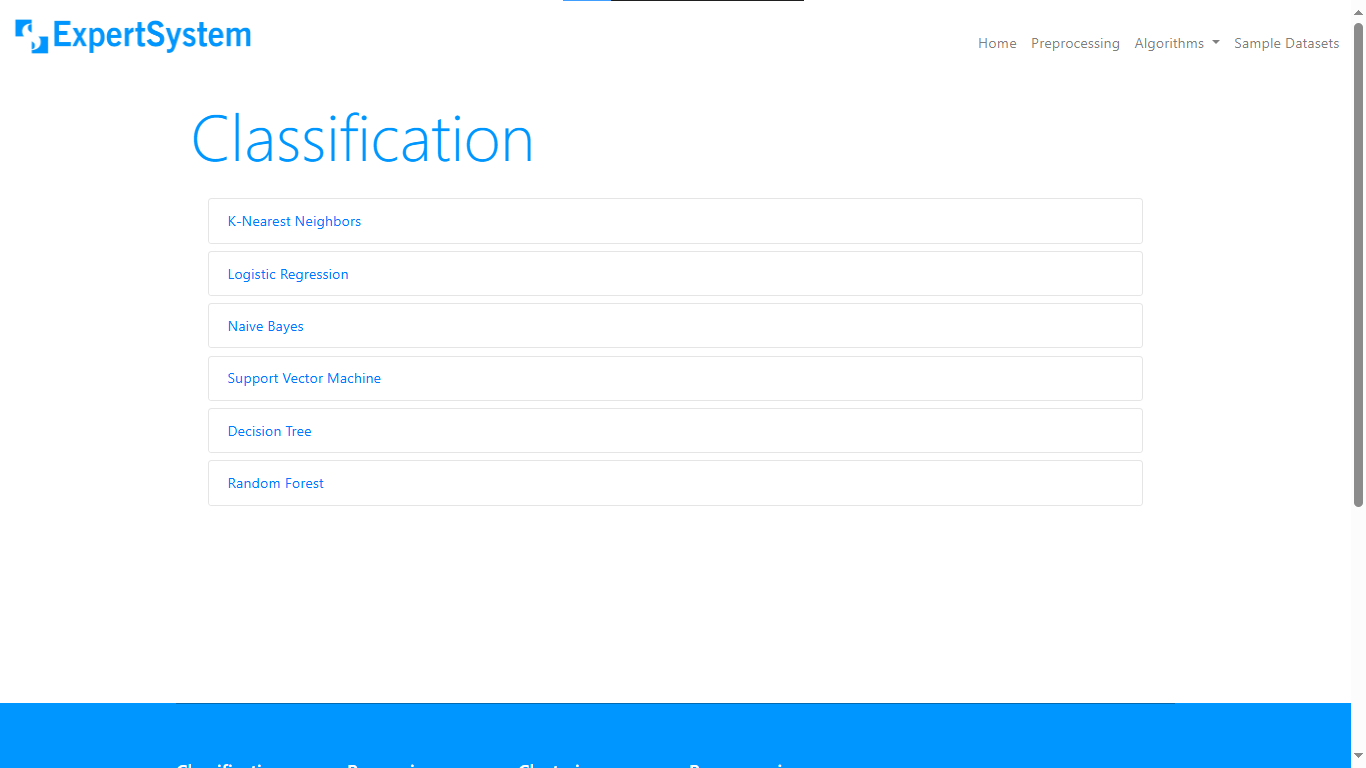
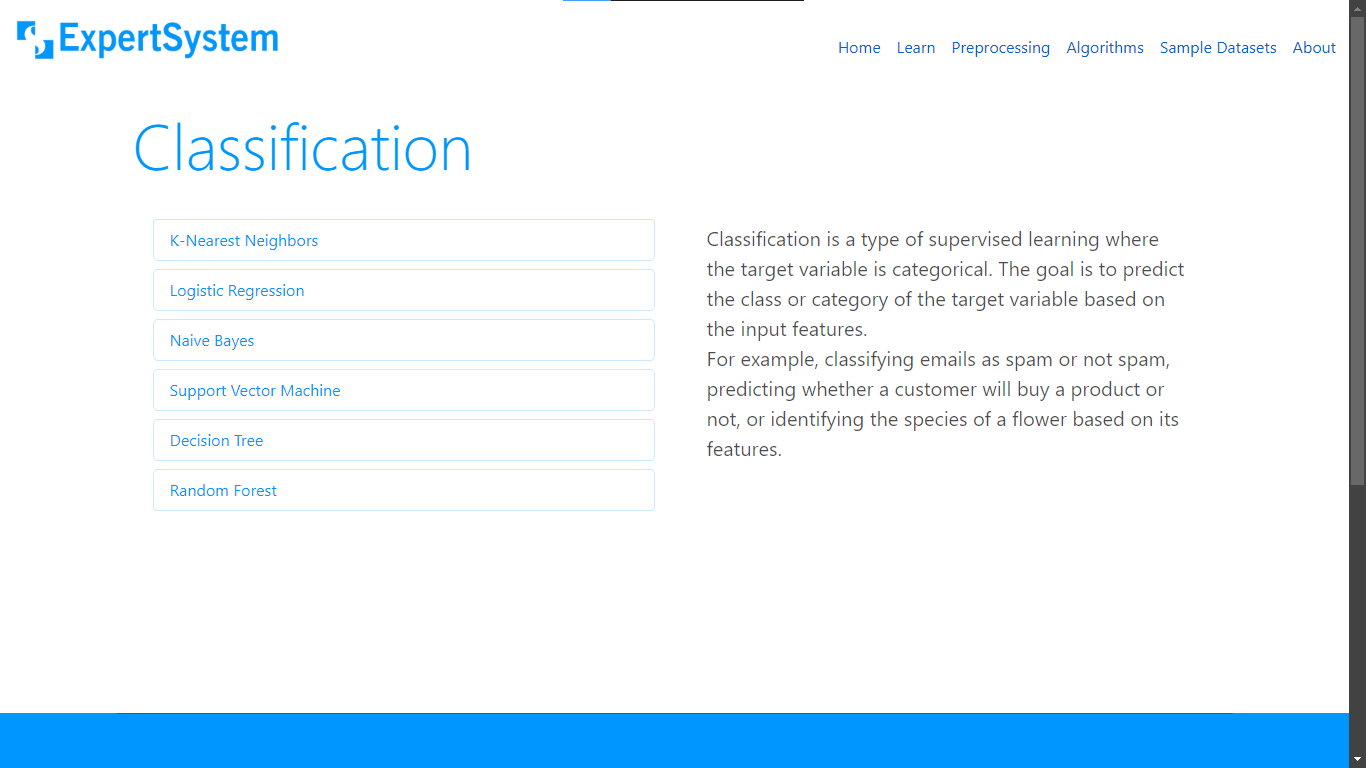
Update documentation

diff --git a/README.md b/README.md
@@ -1,26 +1,65 @@
-![alt text](./others/screenshot.png)
+# Expert System
 
-Machine Learning is a vast and complex field that requires a lot of dedication and time to master. 
-However, the complexity of ML algorithms and the necessity for programming skills create
-significant barriers for individuals who wish to leverage ML for their projects or research. 
-But what if we could remove this constraint and allow the users to build models without any coding knowledge?
+Expert System is a platform that allows users to do preprocessing, build, train, and test Machine Learning models without any programming languages. Designed to make Machine Learning accessible to everyone, this project provides an interface to handle the entire Machine Learning workflow.
 
-**Expert System** is a platform that allows users to build, train, and test Machine Learning Models without the need for programming languages. 
+## Key Features
 
-It provides a user-friendly interface where users can:
+- **Data Upload:** Easily upload datasets for processing and analysis, or choose from one of the sample datasets available.
+- **Preprocessing:** Perform 
+  - Encoding
+  - Scaling 
+  - Handling Missing Values
+- **Algorithm Selection:** Choose from:
+  <table>
+    <tr>
+      <th>Classification</th>
+      <td>
+        KNN, 
+        Naive Bayes, 
+        Logistic Regression, 
+        SVM, 
+        Decision Tree, 
+        Random Forest
+      </td>
+    </tr>
+    <tr>
+      <th>Regression</th>
+      <td>
+        Linear Regression,
+        Lasso Regression,
+        Ridge Regression,
+        Decision Tree,
+        Random Forest,
+      </td>
+    </tr>
+    <tr>
+      <th>Clustering</th>
+      <td>
+        K-Means,
+        Hierarchical Clustering
+      </td>
+    </tr>
+  </table>
 
-- Upload Data
-- Preprocess data by performing Encoding, Scaling, Handling Missing Values etc.
-- Select a Classification, Regression or Clustering algorithm
-- Select features, target and hyperparameters for the algorithm
-- Build the model
-- Perform predictions using the model
-- View sample code for the training in python
-- Evaluate the model using metrics displayed such as Accuracy, Precision, Recall, F1 Score, MAE, RMSE, r-squared, Inertia, Silhouette Score etc.
-- Visualize the model using cluster plots, dendrogram etc.
-- Download the model as a `.pkl` file.
+- **Customization:** Select features, target variables, and fine-tune hyperparameters.
+- **Model Building:** Train models using selected configurations.
+- **Predictions:** Generate predictions using the trained model.
+- **Evaluation Metrics:**
+  - Accuracy, Precision, Recall, F1 Score (for classification)
+  - MAE, MSE, RMSE, R-Squared (for regression)
+  - Inertia, Silhouette Score (for clustering)
+- **Visualization:** Generate visualizations like heatmaps, scatters, cluster plots and dendrograms.
+- **Sample Code:** View sample Python code for the training process.
+- **Model Download:** Export trained models as `.pkl` files for reuse.
+- **Learn**: Learn about Data Science and Machine Learning concepts using the notes available.
 
-Expert System is designed to make Machine Learning accessible to everyone, regardless of their coding knowledge. 
+
+Expert System is especially aimed at students who want to explore Machine Learning concepts without the complexities of coding.
+
+### [Screenshots](./SCREENSHOTS.md)
+
+
+## Workflow
 
 ```mermaid
 flowchart LR
@@ -38,64 +77,73 @@ flowchart LR
 ```
 
 
-### *Technologies Used*
+## Technologies Used
 
-![Static Badge](https://img.shields.io/badge/-Django-darkgreen?style=for-the-badge&logo=django)
+
+![Static Badge](https://img.shields.io/badge/-Django-darkgreen?style=for-the-badge&logo=django) 
 ![Static Badge](https://img.shields.io/badge/-JavaScript-white?style=for-the-badge&logo=javascript)
 ![Static Badge](https://img.shields.io/badge/-bootstrap-white?style=for-the-badge&logo=bootstrap)
+
 ![Static Badge](https://img.shields.io/badge/-d3.js-orange?style=for-the-badge&logo=javascript)
+![Static Badge](https://img.shields.io/badge/-prism.js-black?style=for-the-badge&logo=javascript)
+![Static Badge](https://img.shields.io/badge/-intro.js-skyblue?style=for-the-badge&logo=javascript)
 ![Static Badge](https://img.shields.io/badge/-plotly.js-navy?style=for-the-badge&logo=javascript)
+
 ![Static Badge](https://img.shields.io/badge/-Scikit_Learn-blue?style=for-the-badge&logo=scikit-learn)
 ![Static Badge](https://img.shields.io/badge/-pandas-purple?style=for-the-badge&logo=pandas)
 ![Static Badge](https://img.shields.io/badge/-numpy-cyan?style=for-the-badge&logo=numpy)
-![Static Badge](https://img.shields.io/badge/-prism.js-black?style=for-the-badge&logo=javascript)
 
-### CI/CD Pipeline
+## Usage
 
-Github Actions is used to automate the developer workflow:
-**Development**, **Testing**, **Build** and **Deployment**.
+1. Clone the project:
+  
+    ```
+    git clone https://github.com/akshay-rajan/expertsystem.git
+    ```
+    
+2. Navigate to the project directory:
 
-![alt](./others/Workflow.png)
+    ```
+    cd expertsystem
+    ```
+3. Create a virutal environment:
 
-[django.yml](.github/workflows/django.yml)
+    ```bash
+    python -m venv myenv
+    ```
 
-<!-- > Github Actions **Listen** to Github **Events**, such as a PR, Contributor addition etc. -->
-<!-- > The Event **Triggers a Workflow**, which contain **Actions**, for example Sorting, Labelling, Assignment to someone etc. -->
-<!-- [django.yml](.github/workflows/django.yml) -->
+4. Activate the virtual environment:
+    - **Linux / MacOS**
+      
+      ```bash
+      source myenv/bin/activate
+      ```
+    
+    - **Windows**
+      
+      ```bash
+      .\myenv\Scripts\activate
+      ```
 
-### *Usage*
+5. Install the requirements:
 
-Clone the project:
-```
-git clone https://github.com/akshay-rajan/expertsystem.git
-```
-Navigate to the project directory:
-```
-cd expertsystem
-```
-Create a virutal environment:
-```bash
-python -m venv myenv
-```
-Activate the virtual environment:
-```bash
-source myenv/bin/activate # Linux/macOS
-.\myenv\Scripts\activate # Windows
-```
-Install the requirements:
-```bash
-pip install -r requirements.txt
-```
-Run the database migrations:
-```bash
-python manage.py migrate
-```
-Start the Django server:
-```bash
-python manage.py runserver
-```
-The server will start at http://127.0.0.1:8000/ .
+    ```bash
+    pip install -r requirements.txt
+    ```
 
+6. Run database migrations:
+
+    ```bash
+    python manage.py migrate
+    ```
+
+7. Start the Django server:
+
+    ```bash
+    python manage.py runserver
+    ```
+    
+The application will be accessible at at http://127.0.0.1:8000/ .
 
 ---
 

diff --git a/SCREENSHOTS.md b/SCREENSHOTS.md
@@ -1,0 +1,51 @@
+## 1. Home
+
+<div style="display:flex; flex-wrap: wrap;">
+    <img src="./others/home1.png" alt="alt" style="max-width:50%;">
+    <img src="./others/home2.png" alt="alt" style="max-width:50%;">
+    <img src="./others/home3.png" alt="alt" style="max-width:50%;">
+    <img src="./others/home4.png" alt="alt" style="max-width:50%;">
+</div>
+
+
+## 2. Algorithms
+
+<div style="display:flex; flex-wrap: wrap;">
+    <img src="./others/classification.png" alt="alt" style="max-width:50%;">
+    <img src="./others/regression.png" alt="alt" style="max-width:50%;">
+    <img src="./others/clustering.png" alt="alt" style="max-width:50%;">
+</div>
+
+## 3. Preprocessing
+
+<div style="display:flex; flex-wrap: wrap;">
+    <img src="./others/preprocessing1.png" alt="alt" style="max-width:50%;">
+    <img src="./others/preprocessing2.png" alt="alt" style="max-width:50%;">
+    <img src="./others/preprocessing3.png" alt="alt" style="max-width:50%;">
+    <img src="./others/preprocessing4.png" alt="alt" style="max-width:50%;">
+</div>
+
+## 4. Input Form
+
+<div style="display:flex; flex-wrap: wrap;">
+    <img src="./others/input1.png" alt="alt" style="max-width:50%;">
+    <img src="./others/input2.png" alt="alt" style="max-width:50%;">
+</div>
+
+## 5. Evaluation and Prediction
+
+<div style="display:flex; flex-wrap: wrap;">
+    <img src="./others/result1.png" alt="alt" style="max-width:50%;">
+    <img src="./others/result2.png" alt="alt" style="max-width:50%;">
+    <img src="./others/result3.png" alt="alt" style="max-width:50%;">
+    <img src="./others/result4.png" alt="alt" style="max-width:50%;">
+    <img src="./others/result5.png" alt="alt" style="max-width:50%;">
+    <img src="./others/result6.png" alt="alt" style="max-width:50%;">
+</div>
+
+## 6. Notes
+
+<div style="display:flex; flex-wrap: wrap;">
+    <img src="./others/learn1.png" alt="alt" style="max-width:50%;">
+    <img src="./others/learn2.png" alt="alt" style="max-width:50%;">
+</div>
